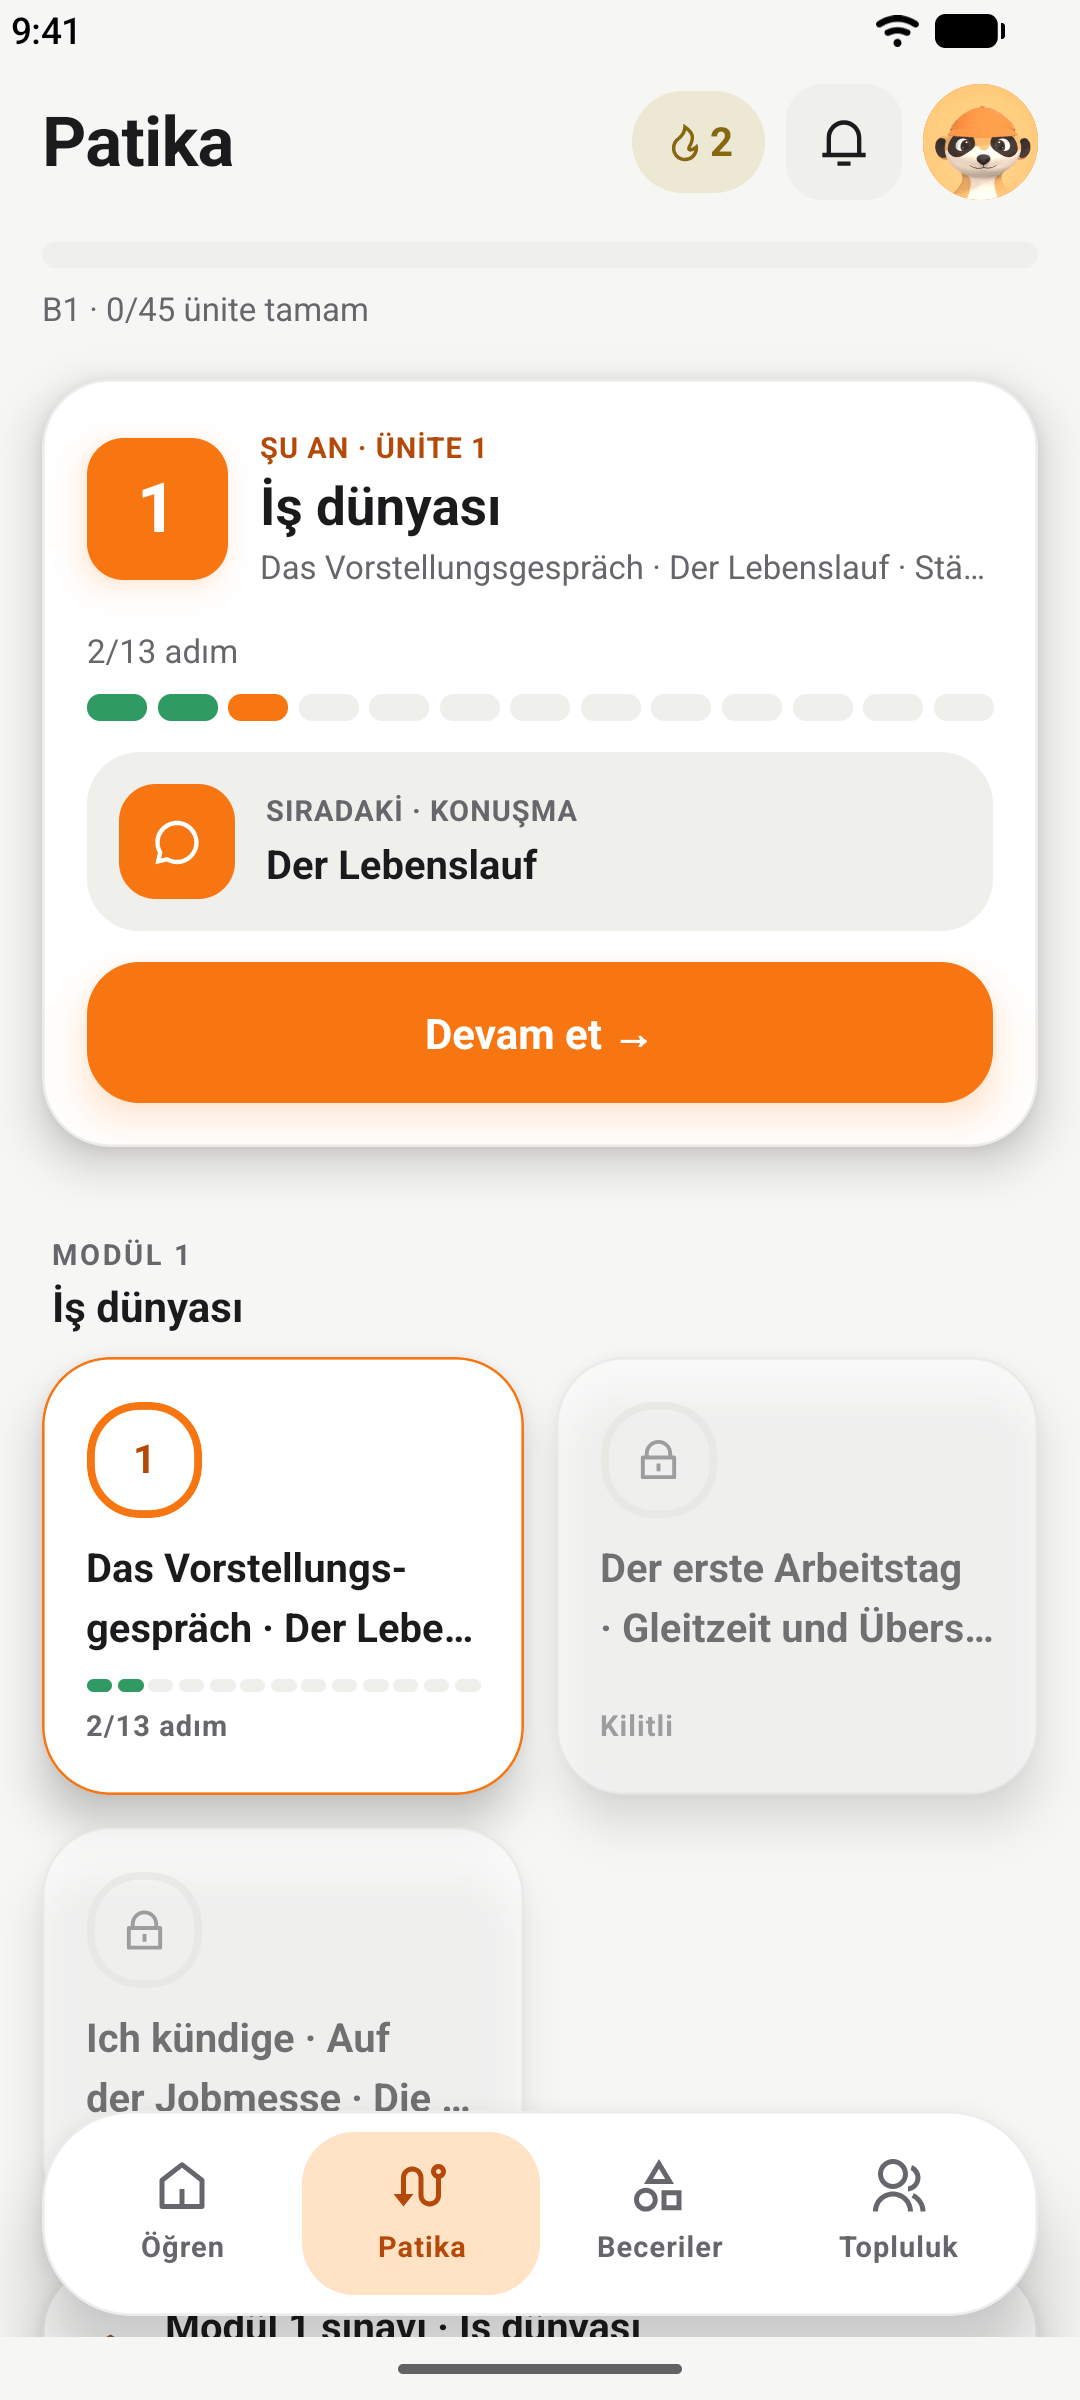
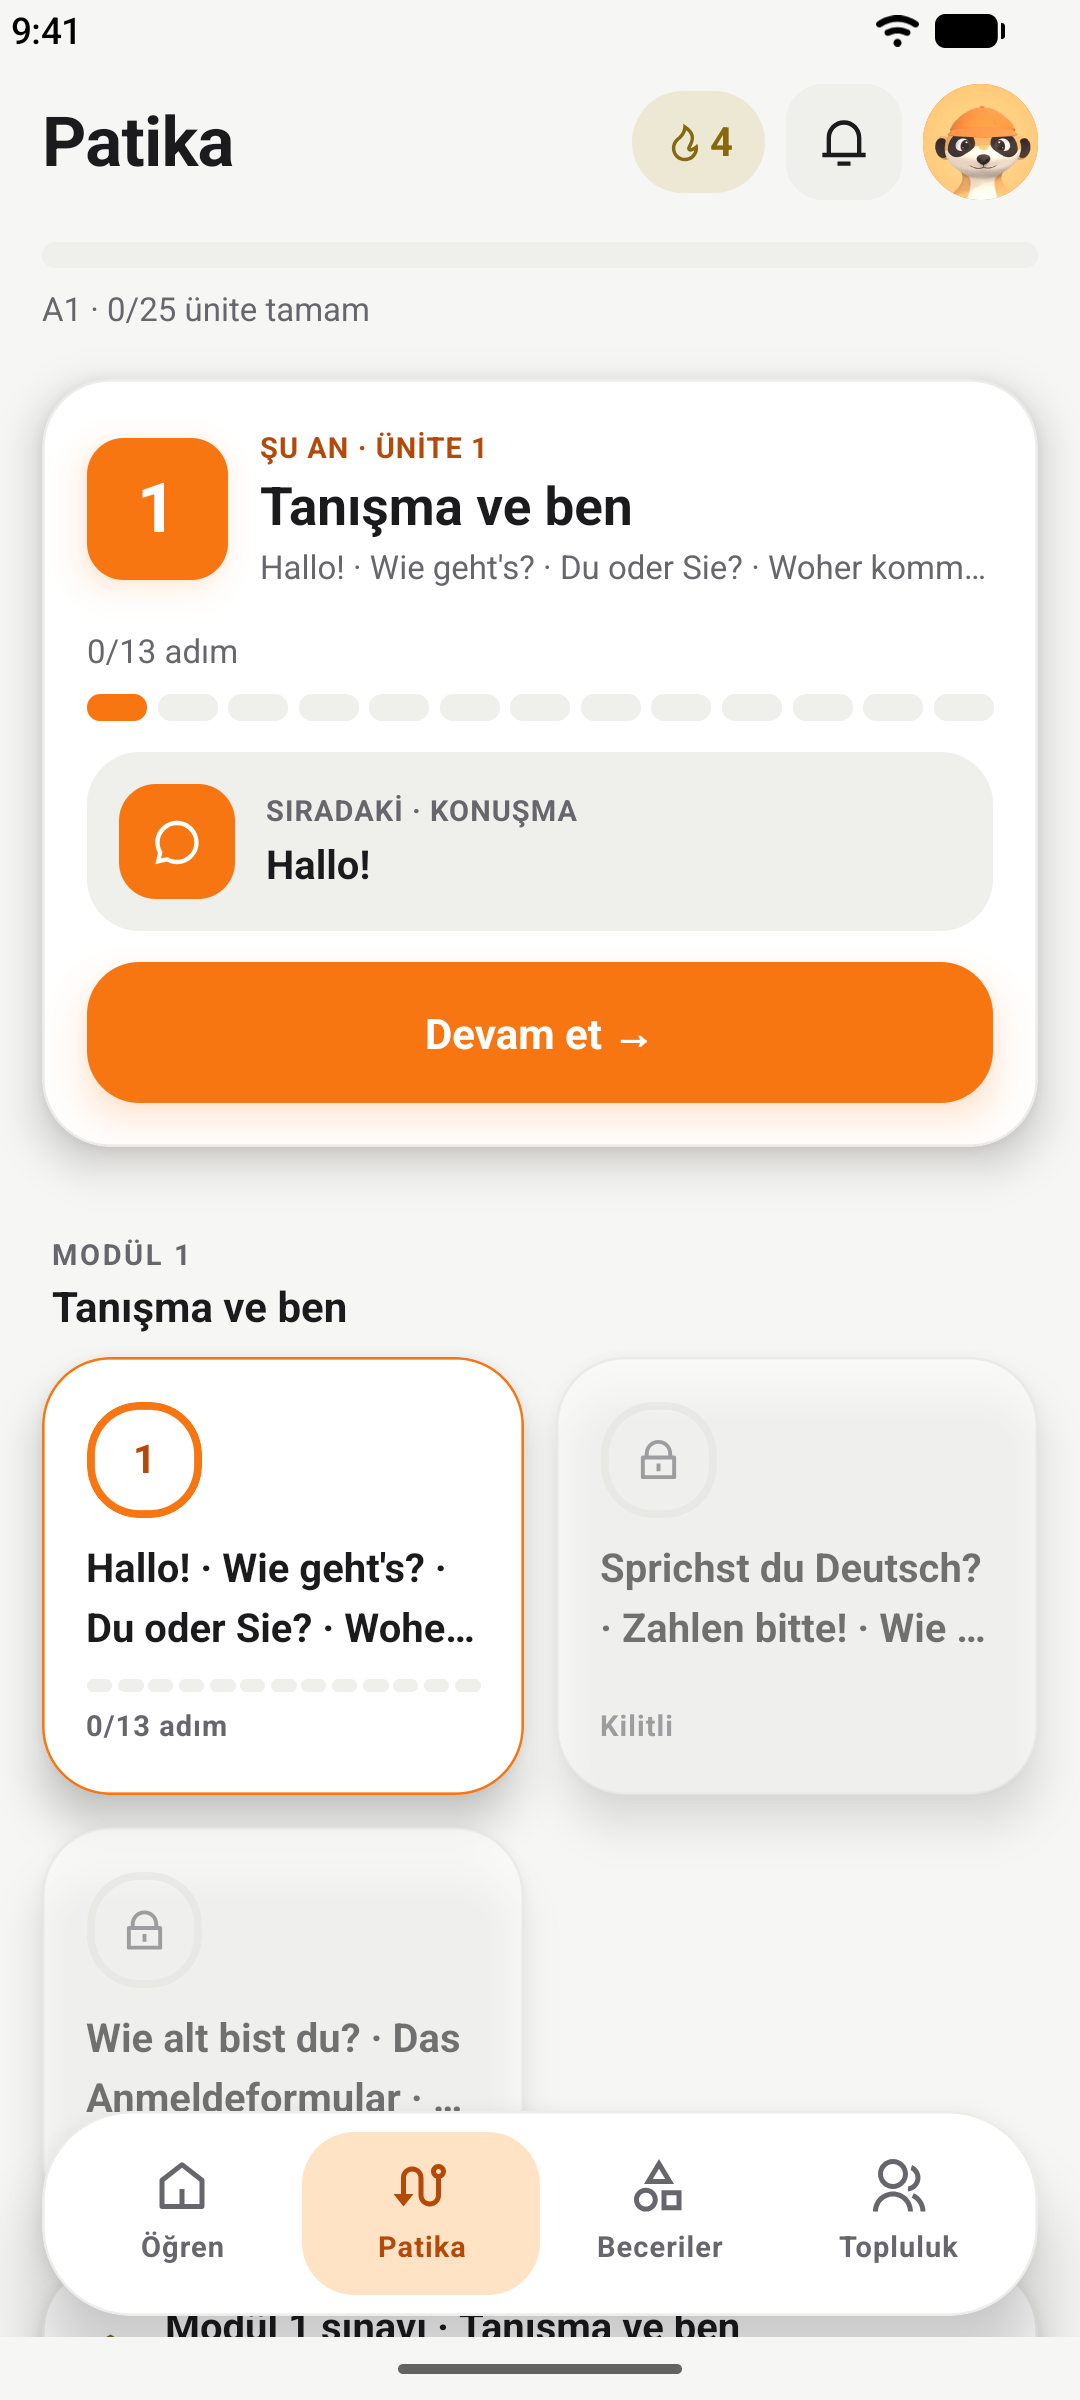
Vitrin 1. kare A1'den: üç dil çifti × dört cihaz Patika yeniden çekildi (A1, ilk ünite), seviye çizgisi A1

diff --git a/docs/store/screenshots.md b/docs/store/screenshots.md
@@ -24,7 +24,7 @@ Her sette 7 ekran, her biri açık VE koyu tema (sayfa temaya göre değiştiriy
 | Ekran (`<ekran>`) | Nereden | İçerik durumu |
 |---|---|---|
 | `home` | Öğren sekmesi | Günlük tur kutusu (maskot görünür), günün görevleri |
-| `path` | Patika sekmesi | B1, ilk ünite "şu an", ilk adım bitmiş |
+| `path` | Patika sekmesi | A1, ilk ünite "şu an", hiç adım bitmemiş (2026-10-05'ten beri; hesap çekim için geçici A1'e alınır, sonra B1'e döner) |
 | `unit` | Patika › ilk ünite kartı | Konuşma adımı tamamlandı (yeşil tik), sıradaki "Şimdi" |
 | `conversation` | Ünite › Konuşma adımı › sohbet | Kullanıcının TEK net hatası + doğru düzeltme + 3 öneri; yapay zekâ bildirimi görünür |
 | `mock-task` | Öğren › Deneme sınavları › B1 › bir bölüm › Bölüme başla | Görev ekranı (süre sayacı, görev + anadil açıklaması) |
@@ -46,6 +46,9 @@ bariz bir hatayla (ör. `seit drei Jahre` → `Jahren`) yeniden yazılır. Sayfa
   2026-09-28). Premium (2026-12-28'e dek, bonus): kareler kilitsiz ve kota şeridi olmadan çekilir.
   Süre dolunca yeniden vermek üretim veritabanına yazmak demek, Samet'e sorulur.
 - Hesapta B1 seçili (Ayarlar › Öğrenme › Seviye). Onboarding'deki seviye seçimi hesaba geçmiyor.
+  `path` ekranı A1'de çekilir: çekimden önce profil satırı salt okunarak saklanır (`row_to_json(profiles)`),
+  seviye uygulamadan A1'e alınır, üç set dört cihazda çekilir, sonra Türkçe arayüz + Almanca + B1'e dönülür
+  ve satır öncekiyle karşılaştırılır (2026-10-05).
 
 ## Akış
 
@@ -78,6 +81,8 @@ Playwright ile `localhost:3100` (Accept-Language tr/en/de) açık ve koyu tema, 
 
 Sayfadaki WebP'ler: dört set 7/7, açık ve koyu (2026-09-30, B paleti). `tr-en` sayfada KULLANILMIYOR
 (`SCREEN_SET` dil başına tek set; "Diller" bölümü yalnız metin); set hazır tutuluyor.
+
+`path` yeniden çekimi (2026-10-05, build 16, A1; üç set dört cihaz + tanıtım sayfasının üç seti açık/koyu).
 
 Mağaza çekimi (2026-10-01, main c42be31a1 + 230eb9ae5 build'i): üç set dört cihazda tam, 75 kare; karelerin
 kullandığı ham görüntüler `docs/store/raw/`. Tanıtım sayfasının dört seti aynı çekimden, konuşma dökümleri

diff --git a/docs/store/README.md b/docs/store/README.md
@@ -134,7 +134,7 @@ yürüyüş ücretsizde günde 3 tur, `plan.free_walk`) · 5) günlük kelime tu
 
 | # | Sütun | Ekran | İçerik durumu (çekimde hazırlanacak) | Altyazı taslağı |
 |---|---|---|---|---|
-| 1 | A1'den C1'e adım adım | Patika: A1→C1 ünite haritası (Okuma, Dinleme, Konuşma, Yazma, Dil bilgisi, Quiz, Sınav) | B1'de ilerleyen hesap; A1–A2 tamamlanmış görünür | Sıfırdan C1'e, Türkçe anlatımla · Seviyeni seç ya da kısa testle bul (2026-10-05; önce: A1'den C1'e adım adım, Türkçe anlatımla) |
+| 1 | A1'den C1'e adım adım | Patika: A1→C1 ünite haritası (Okuma, Dinleme, Konuşma, Yazma, Dil bilgisi, Quiz, Sınav) | A1, ilk ünite "şu an" (2026-10-05: `screenshots@` çekim süresince Samet'in onayıyla A1'e alındı, sonra B1/Almanca/Türkçe'ye döndü; satır öncesiyle aynı, yalnız şartlar 1.9.2 onayı yeni). Seviye çizgisi `currentLevel` A1 | Sıfırdan C1'e, Türkçe anlatımla · Seviyeni seç ya da kısa testle bul (2026-10-05; önce: A1'den C1'e adım adım, Türkçe anlatımla) |
 | 2 | Konuşma | Patika › Konuşma adımı: sahne sohbeti | Gerçek bir sahne (ör. B1 doktor randevusu); kullanıcının cümlesi ve düzeltmesi görünür; yapay zekâ bildirimi görünür | Konuş, düzeltmeni anında gör |
 | 3 | Sınav | Deneme sınavı sonucu | B1 deneme sınavı, yazma ya da konuşma bölümünün sonucu: bölüm yüzdesi, "Ölçüm hedeflerine göre" çubukları (görev puanlarından, 745930f5) ve yapılacaklar listesi; incelemede hata→düzeltme. Yeni etiketler ("yapay zekâ puanlar") build 11 ile: çekim build 11+ ile | Konuşma ve yazma da puanlanır · Her seviyede 1'i ücretsiz, fazlası Premium'da (2026-10-05) |
 | 4 | Fark | Cepte yürüyüş + kilit ekranı | Ekran kapalı akış; kilit ekranında "Yürüyüş modu açık" | Ekrana bakmadan, yolda çalış · Günde 3 tur ücretsiz, ekran kapalıyken Premium (2026-10-05; ham görüntü ekran açık giriş) |
